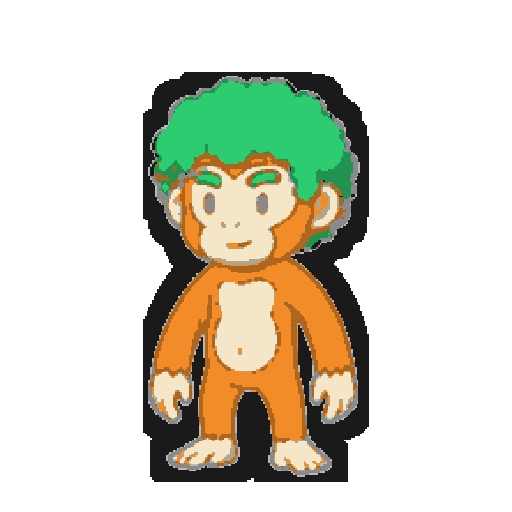
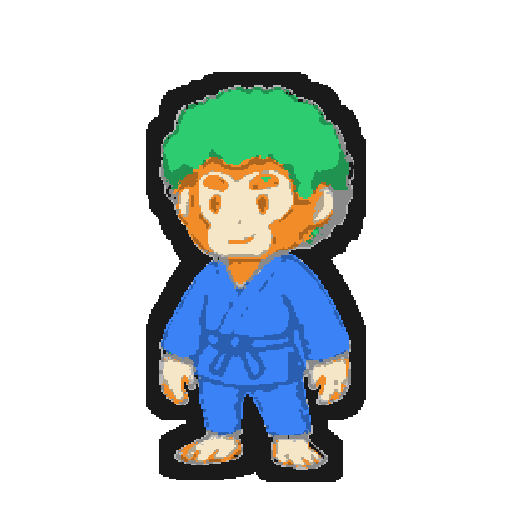
Monkey art: stage 3 row from the regenerated sheet, all in robes
The slicer now grows each figure's box over touching coloured pixels, so
dull hair just under the colour threshold is no longer clipped. Stage 3
spiky, shaggy and curly come from the second Flora sheet; stages 1 and
2 and the badges are unchanged. Product-page evolution image re-rendered.

Changed region(s): [[0.2812, 0.125, 0.7188, 0.9688]]

diff --git a/scripts/monkey-prep.py b/scripts/monkey-prep.py
@@ -214,6 +214,20 @@ def sheet(src, outdir):
                 if merged: break
         return blobs
     blobs = merge(blobs)
+    # Grow each box over any coloured pixels touching its edges, so dull hair
+    # just under the colour threshold is not cut off (the watermark is grey, so it never pulls a box).
+    def coloured(x, y): q = px[x, y]; return chroma_of(q) > 0.1 and lum_of(q) < 0.9
+    def grow(b):
+        x0, y0, x1, y1 = b
+        for _ in range(120):
+            changed = False
+            if y0 > 0 and any(coloured(x, y0 - 1) for x in range(x0, x1)): y0 -= 1; changed = True
+            if y1 < H and any(coloured(x, y1) for x in range(x0, x1)): y1 += 1; changed = True
+            if x0 > 0 and any(coloured(x0 - 1, y) for y in range(y0, y1)): x0 -= 1; changed = True
+            if x1 < W and any(coloured(x1, y) for y in range(y0, y1)): x1 += 1; changed = True
+            if not changed: break
+        return (x0, y0, x1, y1)
+    blobs = [grow(b) for b in blobs]
     blobs.sort(key=lambda b: (b[1] + b[3]) / 2)
     rows = []
     for b in blobs:

diff --git a/docs/MONKEYS.md b/docs/MONKEYS.md
@@ -51,7 +51,7 @@ Badges: `Single pixel-art icon, 16-bit style, flat colours, crisp outline, trans
 
 Flora generated one white-background contact sheet (3×3 monkeys, hair columns spiky / shaggy / curly, plus the four grey badges) from the prompt above. `scripts/monkey-prep.py --sheet <sheet>.png docs/images/monkeys/` slices it, keys out the background (white, or a drawn checkerboard, or real transparency), drops watermark specks, snaps every pixel to the exact reference palette (two tones per part plus a `#1A1A1A` outline), redraws a uniform outline and refits each monkey to 80% of a 512 square with its feet near the bottom. Badges are resized to 128 with their own colours kept. The same script also handles single 1024px Flora exports.
 
-Known quirks of this generation: stage 3 shaggy and curly have no robe (bare chest), and only stage 3 spiky stands on the rock. Regenerate and rerun the script if that bothers you; the game code does not care. If a file is missing the game draws a grey block with a question mark instead of breaking.
+The stage 3 row comes from a second sheet ("Male Monkeys Project 1", regenerated so every stage 3 character wears the robe); stages 1 and 2 and the badges come from the first sheet. Only stage 3 spiky stands on the rock. If a file is missing the game draws a grey block with a question mark instead of breaking.
 
 ## Checking a generated file
 
